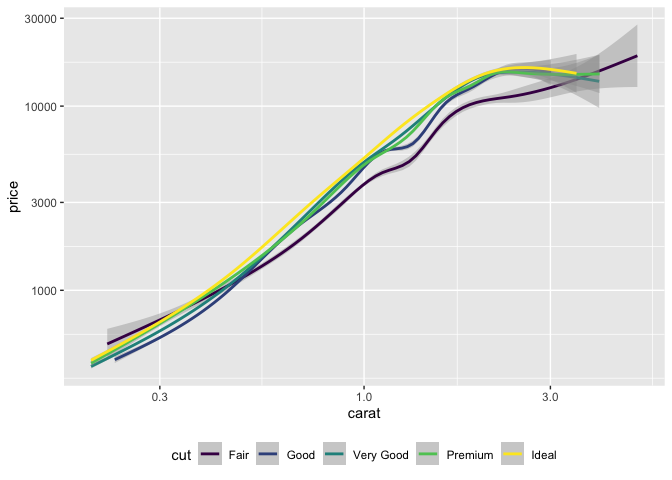
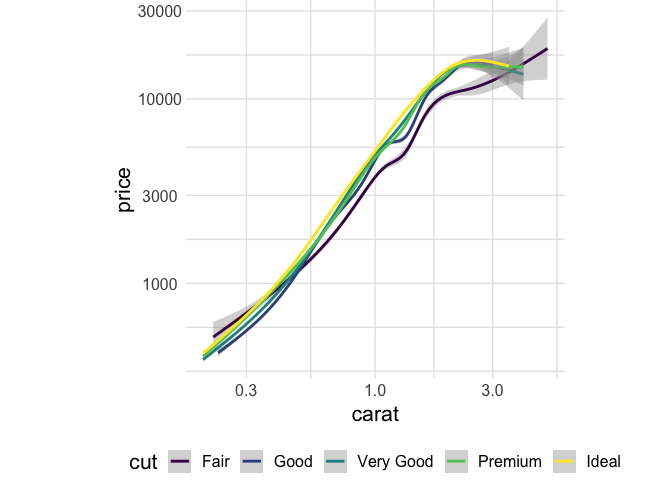
make aesthetic improvements

diff --git a/challenges/c00-diamonds-solution.md b/challenges/c00-diamonds-solution.md
@@ -31,6 +31,10 @@ library(tidyverse)
     ## ✖ dplyr::filter() masks stats::filter()
     ## ✖ dplyr::lag()    masks stats::lag()
 
+``` r
+library(rzdr)
+```
+
 # Data Exploration
 
 <!-- -------------------------------------------------- -->
@@ -68,7 +72,8 @@ diamonds %>%
   ggplot(aes(carat, price, color = cut)) +
   geom_point(alpha = 1 / 3) +
   scale_x_log10() +
-  scale_y_log10()
+  scale_y_log10() +
+  theme_common()
 ```
 
 ![](c00-diamonds-solution_files/figure-gfm/q2-task-1.png)<!-- -->
@@ -93,12 +98,14 @@ diamonds %>%
   geom_smooth() +
   scale_x_log10() +
   scale_y_log10() +
+  theme_common() +
   theme(legend.position = "bottom")
 ```
 
     ## `geom_smooth()` using method = 'gam' and formula 'y ~ s(x, bs = "cs")'
 
 ![](c00-diamonds-solution_files/figure-gfm/elaboration-1.png)<!-- -->
+
 **Observations**:
 
   - The relationships between `price` and `carat` is very nearly linear
@@ -124,6 +131,7 @@ diamonds %>%
   scale_x_continuous(breaks = c(0.2, 0.25, 0.3)) +
   viridis::scale_fill_viridis() +
   facet_wrap(~cut) +
+  theme_common() +
   theme(legend.position = "bottom")
 ```
 
@@ -152,7 +160,8 @@ distribution `carat` values.
 ``` r
 diamonds %>%
   ggplot(aes(carat)) +
-  geom_histogram(bins = 120)
+  geom_histogram(bins = 120) +
+  theme_common()
 ```
 
 ![](c00-diamonds-solution_files/figure-gfm/bonus1-1.png)<!-- -->
@@ -172,7 +181,8 @@ diamonds %>%
   geom_histogram(boundary = wid / 2, binwidth = wid) +
   scale_x_continuous(
     breaks = c(0.3, 0.4, 0.5, 0.7, 0.9, 1, 1.2)
-  )
+  ) +
+  theme_common()
 ```
 
 ![](c00-diamonds-solution_files/figure-gfm/bonus2-1.png)<!-- -->
